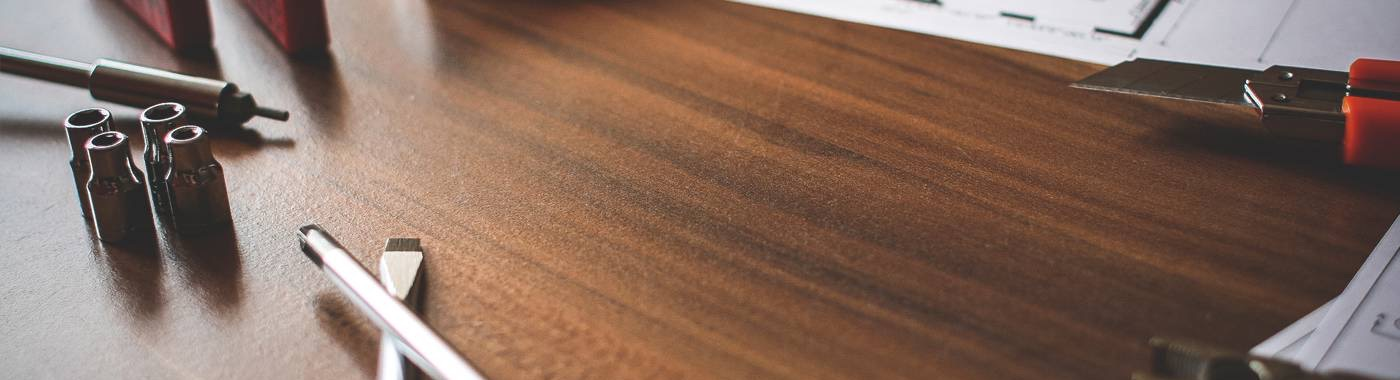
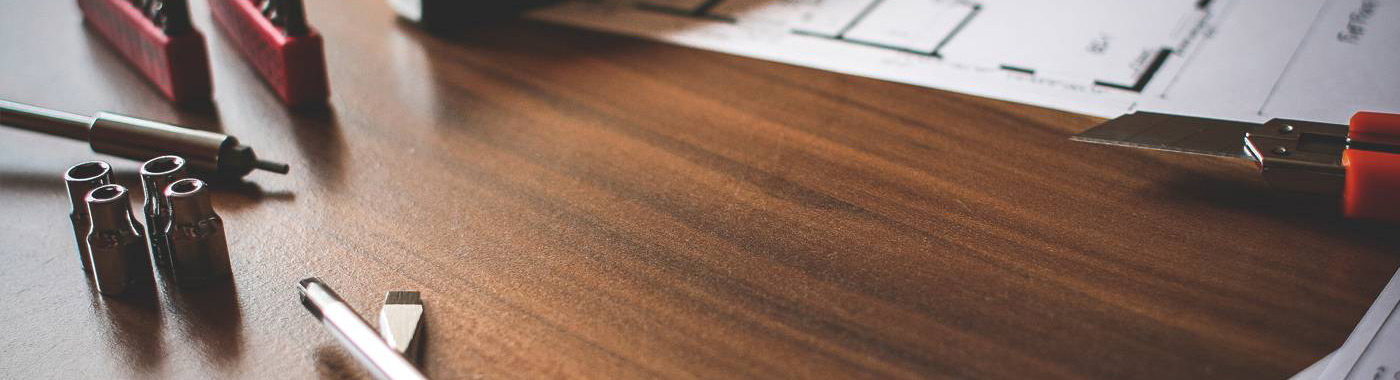
Advanced Custom Fields Páginas Internas e Imagem responsiva

diff --git a/style.css b/style.css
@@ -8,14 +8,18 @@ Version: 1.0
 */
 
 
-@import 'css/reset.css';
 @import 'css/nomalize.css';
+@import 'css/reset.css';
 @import 'css/grid.css';
 @import 'css/sobre.css';
 @import 'css/produtos.css';
 @import 'css/portfolio.css';
 @import 'css/contato.css';
 
+/* Estilos adm WordPress */
+.customize-support .header {
+    margin-top: 32px;
+}
 
 /* Estilos gerais */
 
@@ -142,8 +146,6 @@ img {
 .introducao {
     width: 100%;
     height: 380px;
-    background: url("img/bg.jpg") no-repeat center;
-    background-size: cover;
     margin-top: 92px;
     text-align: center;
     padding-top: 80px;
@@ -482,3 +484,188 @@ img {
 #form-erro {
     color: #f64540;
 }
+
+
+
+/* Responsivo - Media Query (lembrando que os tamanhos têm 20px a mais por causa da barra de rolagem lateral) */
+
+/* Estilo para tablet */
+@media only screen and (min-width: 788px) and (max-width: 979px) {
+
+
+    /* Qualidade Home */
+    
+    .qualidade:after {
+        right: 66px;
+    }
+    
+    .qualidade_lista li {
+        padding: 0 10px;
+    }
+    
+    /* Footer */
+    
+    .footer_redes ul li a {
+        border: 3px solid #fec63e;
+        display: block;
+        padding: 6px;
+    }
+    
+    .footer_redes ul li a img {
+        width: 26px;
+        height: 26px;
+    }
+    
+    /* Produto */
+    
+    .produto_item h2 {
+        top: -150px;
+        margin-bottom: -56px;
+    }
+    
+    .produto_icone {
+        padding: 41px 0;
+    }
+    
+    .produto_info p {
+        font-size: 14px;
+        line-height: 20px;
+        padding: 20px 30px;
+        height: 122px;
+    }
+    
+    .produto_info ul li {
+        width: 181px;
+    }
+    
+    /* Contato */
+    
+    .contato_form {
+        padding-right: 0;
+        margin-bottom: 40px;
+    }
+    
+    }
+    
+    /* ESTILOS RESPONSIVOS */
+    
+    /* Estilo para smartphone */
+    @media only screen and (max-width: 787px) {
+    
+    /* Header */
+    
+    .header {
+        position: relative;
+        padding-bottom: 0;
+    }
+    
+    .header img {
+        margin: 0 auto 20px auto;
+    }
+    
+    .header_menu {
+        text-align: center;
+    }
+    
+    .header_menu ul li {
+        margin: 5px;
+    }
+    
+    .header_menu ul li a{
+        border: 4px solid #000;
+        width: 136px;
+        display: block;
+        float: left;
+    }
+    
+    .header_menu ul li a:hover {
+        border-color: #fff;
+    }
+    
+    .header_menu ul li a.menu_ativo {
+        border-color: #fff;
+    }
+    
+    /* Introdução */
+    
+    .introducao {
+        margin-top: 0;
+        padding-top: 40px;
+    }
+    
+    .introducao h1 {
+        font-size: 36px;
+    }
+    
+    /* Introdução interna */
+    
+    .introducao-interna {
+        margin-top: 0px;
+    }
+    
+    /* Call */
+    
+    .call {
+        padding-top: 10px;
+    }
+    
+    /* Qualidade Home */
+    
+    .qualidade:after {
+        display: none;
+    }
+    
+    /* Sobre */
+    
+    .missao_sobre p {
+        padding-right: 0px;
+        font-size: 14px;
+        line-height: 20px;
+    }
+    
+    .missao_sobre ul li {
+        font-size: 14px;
+        line-height: 25px;
+    } 
+    
+    /* Produto */
+    
+    .produto_item h2 {
+        top: -105px;
+        margin-bottom: -68px;
+    }
+    
+    .produto_icone {
+        padding: 41px 0;
+    }
+    
+    .produto_info p {
+        font-size: 14px;
+        line-height: 20px;
+        height: auto;
+        padding: 20px 30px;
+    }
+    
+    .produto_info ul li {
+        width: 149px;
+        font-size: 14px;
+        line-height: 20px;
+        padding-top: 14px;
+    }
+    
+    .form {
+        padding-right: 0px;
+    }
+    
+    .orcamento_dados ul {
+        padding-right: 0px;
+    }
+    
+    /* Contato */
+    
+    .contato_form {
+        padding-right: 0;
+        margin-bottom: 40px;
+    }
+    
+    }

diff --git a/css/portfolio.css b/css/portfolio.css
@@ -1,8 +1,3 @@
-.interna_portfolio {
-    background: url("../img/bg-portfolio.jpg") no-repeat center;
-    background-size: cover;
-}
-
 .quote_cliente {
     padding: 60px 0;
     max-width: 460px;

diff --git a/css/responsivo.css b/css/responsivo.css
@@ -101,8 +101,6 @@
 .introducao {
 	margin-top: 0;
 	padding-top: 40px;
-	background: url("../img/bg-mobile.jpg") no-repeat center;
-	background-size: cover;
 }
 
 .introducao h1 {

diff --git a/css/produtos.css b/css/produtos.css
@@ -1,8 +1,3 @@
-.interna_produtos {
-    background: url("../img/bg-produtos.jpg") no-repeat center;
-    background-size: cover;
-}
-
 .produto_item {
     padding-top: 60px;
 }

diff --git a/css/sobre.css b/css/sobre.css
@@ -1,8 +1,3 @@
-.interna_sobre {
-    background: url("../img/bg-sobre.jpg") no-repeat center;
-    background-size: cover;
-} 
-
 .missao_sobre {
     padding-top: 60px;
 }

diff --git a/css/contato.css b/css/contato.css
@@ -1,9 +1,3 @@
-.interna_contato {
-    background: url("../img/bg-contato.jpg") no-repeat center;
-    background-size: cover;
-}
-
-
 /* Orçamento */
 
 .contato {

diff --git a/inc/introducao.php b/inc/introducao.php
@@ -1,7 +1,20 @@
-        <section class="introducao-interna interna_contato">
-            <div class="container">
-                <h1 data-anime="400" class="fadeInDown">Contato</h1>
-                <p data-anime="800" class="fadeInDown">Tire suas dúvidas com a gente</p>
-            </div>
-        </section>
-        <!-- Fecha introdução Contato -->
+<style type="text/css">
+    .introducao-interna {
+        background: url("<?php the_field('background_interno') ?>") no-repeat center;
+        background-size: cover;
+    } 
+
+    .introducao-interna h1 {
+        margin-top: 30px;
+    }
+</style>
+
+<section class="introducao-interna">
+    <div class="container">
+        <!-- <h1 data-anime="400" class="fadeInDown">Contato</h1> -->
+        <h1 class="fadeInDown"><?php the_title(); ?></h1>
+        <!-- <p data-anime="800" class="fadeInDown">Tire suas dúvidas com a gente</p> -->
+        <p class="fadeInDown"><?php the_field('subtitulo'); ?></p>
+    </div>
+</section>
+<!-- Fecha introdução Contato -->

diff --git a/page-home.php b/page-home.php
@@ -4,6 +4,27 @@
 ?>
 
 <?php if ( have_posts() ) : while ( have_posts() ) : the_post(); ?>
+
+<?php 
+    $imagem_id = get_field('background_home');
+    $background_large = wp_get_attachment_image_src($imagem_id, 'large'); //gera array
+    $background_medium = wp_get_attachment_image_src($imagem_id, 'medium'); //gera array
+?>
+
+    <style type="text/css">
+        .introducao {
+            background: url('<?php echo $background_large[0] ?>') no-repeat center; /* [0] pega url */
+            background-size: cover;
+        }
+
+        @media only screen and (max-width: 787px) {
+            .introducao {
+                background: url('<?php echo $background_medium[0] ?>') no-repeat center; /* [0] pega url */
+                background-size: cover;
+            }
+        }
+    </style>
+
         <section class="introducao">
             <div class="container">
                 <!-- <h1 data-anime="400" class="fadeInDown">Bicicletas Feitas a Mão</h1> -->

diff --git a/functions.php b/functions.php
@@ -1,0 +1,25 @@
+<?php
+
+// Funções para Limpar o Header
+remove_action('wp_head', 'rsd_link');
+remove_action('wp_head', 'wlwmanifest_link');
+remove_action('wp_head', 'start_post_rel_link', 10, 0 );
+remove_action('wp_head', 'adjacent_posts_rel_link_wp_head', 10, 0);
+remove_action('wp_head', 'feed_links_extra', 3);
+remove_action('wp_head', 'wp_generator');
+remove_action('wp_head', 'print_emoji_detection_script', 7);
+remove_action('admin_print_scripts', 'print_emoji_detection_script');
+remove_action('wp_print_styles', 'print_emoji_styles');
+remove_action('admin_print_styles', 'print_emoji_styles');
+
+// Habilitar Menus
+add_theme_support('menus');
+
+function my_custom_sizes() {
+    // true é relativo a cortar a imagem
+    add_image_size('large', 1400, 380, true);
+    add_image_size('medium', 768, 380, true);
+}
+add_action('after_setup_theme', 'my_custom_sizes');
+
+?>
